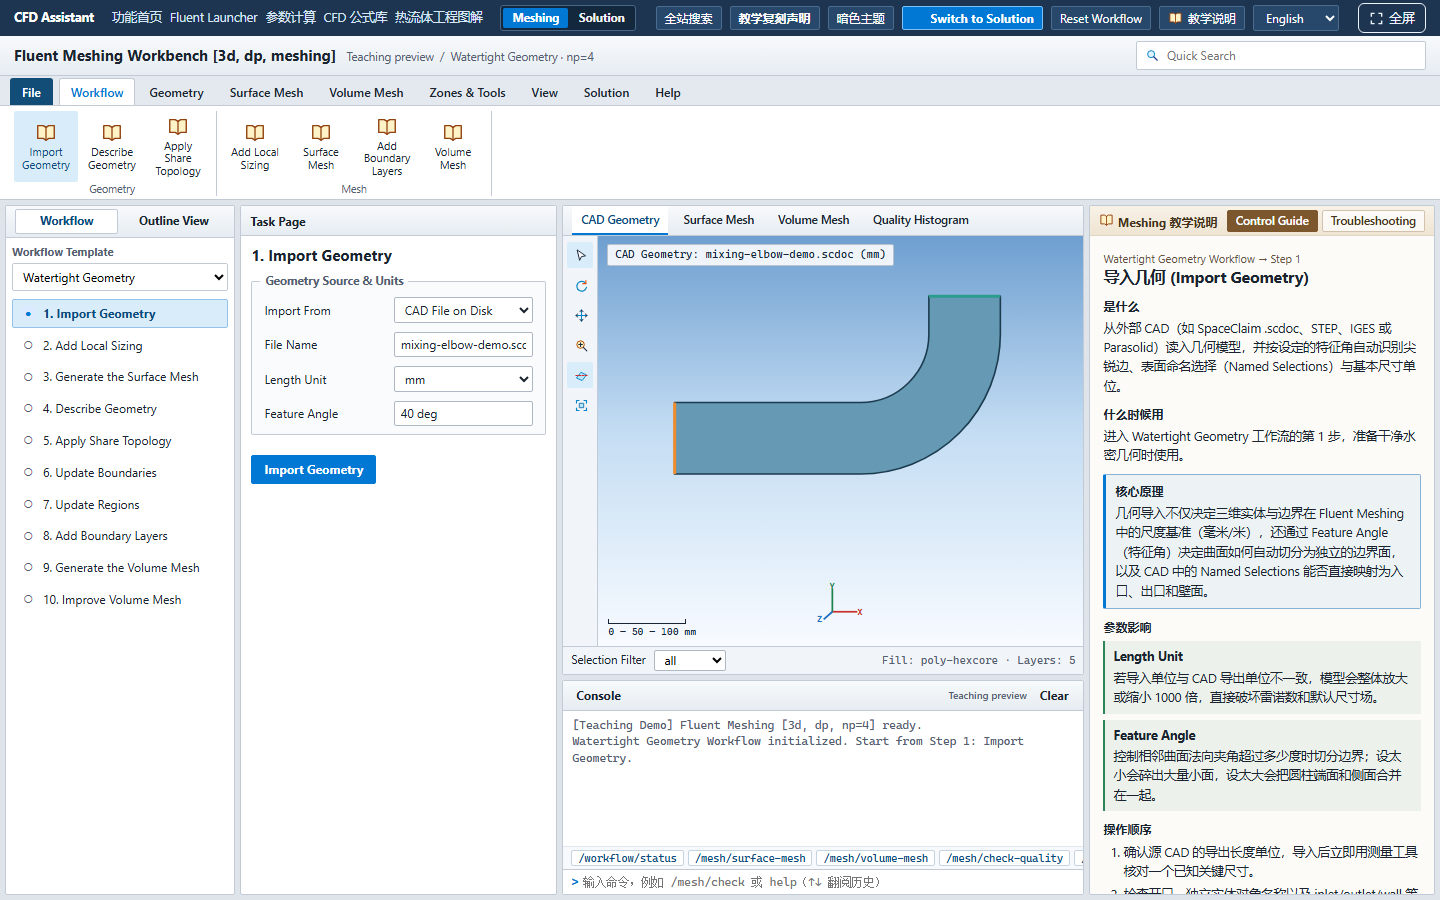
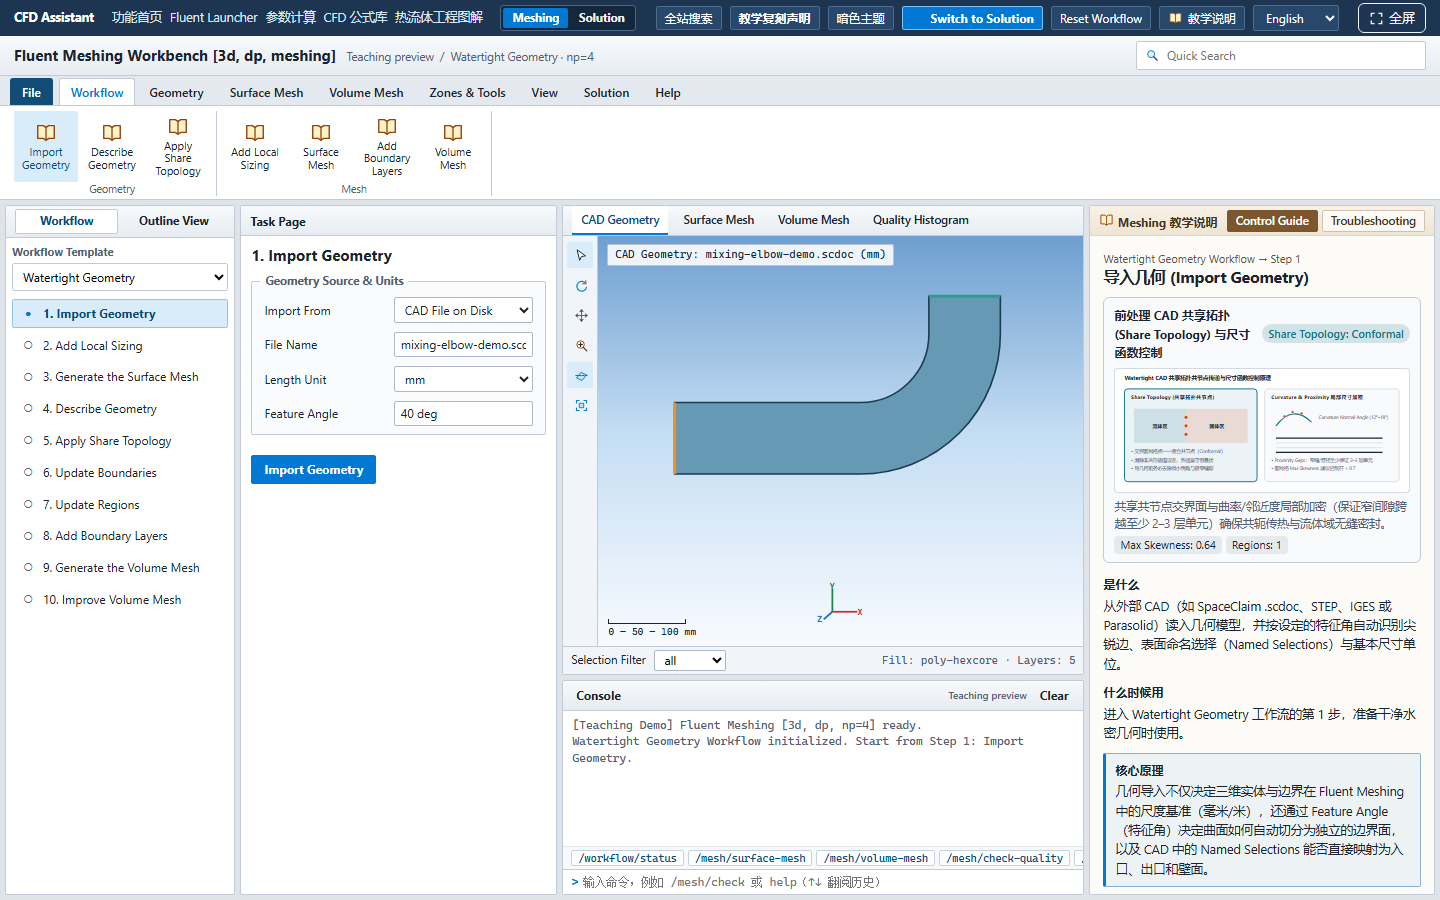
docs: update README, changelog, architecture, and screenshots for latest Fluent upgrades

Changed region(s): [[0.75, 0.3111, 1.0, 0.9956]]

diff --git a/README.md b/README.md
@@ -16,8 +16,8 @@
 | 模块 | 访问路径 | 核心能力说明 |
 | :--- | :--- | :--- |
 | **功能首页与启动器** | `/`、`/fluent-launcher` | 融合“原理 → 网格 → 求解”三段学习路径，内置 **Fluent Launcher** 交互配置器（支持 2D/3D、单/双精度、Meshing/Solution 进程数、并行与显示驱动配置并带参数跳转）。 |
-| **Fluent Solution 教学工作台** | `/fluent-guide` | 覆盖 Ribbon、模型树（Outline）、任务页面（Task Page）、3D 弯管流道视口、控制台 TUI（含常用快捷命令）与多层嵌套教学弹窗；支持中英界面切换、深浅色主题、10 步引导教程、报错排查与右侧“是什么 / 什么时候用 / 建议 / 检查要点 / 常见误区”结构化解析。 |
-| **Fluent Meshing 网格工作台** | `/fluent-meshing` | 内置 **Watertight Geometry**（水密几何）、**Fault-Tolerant**（容错几何）与 **Multizone** 引导工作流，涵盖几何导入、BOI 局部加密、面网格、边界更新、边界层、体网格填充与正交质量直方图，支持一键将配置与边界流转到 Solution 工作台。 |
+| **Fluent Solution 教学工作台** | `/fluent-guide` | 覆盖 Ribbon、可展开模型树（Outline）、任务页面（Task Page）、3D 弯管流道视口、控制台 TUI（含常用快捷命令）、**54 个新增多层嵌套教学子窗口**（覆盖 Case Check、Mesh Info、Zone Adjacency、Reference Frames、Named Expressions、Cell Registers、Animations、Simulation Report、Parallel/Native GPU、材料曲线与用户材料库、动网格 In-Cylinder/6-DOF/Contact/Events、燃烧 CHEMKIN/PDF/NOx & Soot、DTRM、电池电化学、DPM Rosin-Rammler、特殊边界与多相/UDS 配置等）与 **跨窗口条件联动选项卡**（如 UDS 自定义标量、VOF Open Channel/Wave BC、DPM Breakup/Components、Wall Film/Species、Dynamic Mesh Zones 与特殊边界多选项卡）；支持中英界面切换、深浅色主题、10 步引导教程、报错排查、右侧结构化解析与 **14 类交互式 SVG 物理机理图解**（解析面板与弹窗内联折叠联动展示）。 |
+| **Fluent Meshing 网格工作台** | `/fluent-meshing` | 内置 **Watertight Geometry**（水密几何）、**Fault-Tolerant**（容错几何）与 **Multizone** 引导工作流，涵盖几何导入、BOI 局部加密、面网格、边界更新、边界层、体网格填充与正交质量直方图，新增 **6 个接入 Ribbon 的多标签页交互弹窗**（`Read/Write Mesh`、`Display Options`、`Surface Mesh Diagnostics`、`Volume Mesh Check`、`Manage Zones`、`Preferences`）与右侧 CAD 共享拓扑、体网格棱柱层/正交质量 **SVG 物理机理图解**，支持一键将配置与边界流转到 Solution 工作台。 |
 | **CFD 参数计算器（27 项）** | `/calculators` | 分为 **5 大专业分类**，均具备单位实时换算、输入边界校验、中间量输出、KaTeX 公式渲染、变量表与一键复制摘要；每项计算器均有独立研究记录与单元测试约束。 |
 | **CFD 公式库** | `/formulas` | 与参数计算器共享单一数据源（无重复硬编码），按物理分类展示公式名称、KaTeX 数学排版、变量符号/物理含义及一键复制 LaTeX 源码。 |
 | **热流体工程图解（36 节）** | `/knowledge` | 覆盖**流体力学、工程热力学、传热学、制冷技术原理** 4 门核心课程共 36 个专题；内置工程示意图解、跨学科知识框架图谱、本学科刷题自测、难度筛选、重点收藏与本地学习进度追踪。 |
@@ -45,11 +45,11 @@
 
 ![CFD Assistant 功能首页](docs/screenshots/home.png)
 
-### Fluent Solution 求解教学工作台（90° 弯管模型 + TUI + 右侧结构化解析）
+### Fluent Solution 求解教学工作台（90° 弯管模型 + 嵌套子窗 + SVG 机理图解 + TUI）
 
 ![Fluent Solution 教学工作台](docs/screenshots/fluent-solution.png)
 
-### Fluent Meshing 网格工作台（水密/容错工作流引导）
+### Fluent Meshing 网格工作台（水密/容错工作流 + 诊断弹窗 + SVG 机理图解）
 
 ![Fluent Meshing 网格工作台](docs/screenshots/fluent-meshing.png)
 
@@ -102,7 +102,7 @@ npm.cmd run dev
 | :--- | :--- |
 | `npm.cmd run dev` | 启动 Vite 本地开发服务器 |
 | `npm.cmd run lint` | 运行 ESLint 代码静态检查 |
-| `npm.cmd run test` | 运行 Vitest 自动化测试套件（当前 14 个测试文件、352 项用例） |
+| `npm.cmd run test` | 运行 Vitest 自动化测试套件（当前 14 个测试文件、410 项用例） |
 | `npm.cmd run typecheck` | 运行 TypeScript 类型检查（`tsc -b`） |
 | `npm.cmd run build` | 执行类型检查并构建生产静态包至 `dist/` |
 | `npm.cmd run screenshots` | 启动本地预览并通过无头浏览器自动刷新 `docs/screenshots/` 截图 |
@@ -154,9 +154,9 @@ cfd-assistant/
   - 每次版本更新可通过 `npm.cmd run deploy:pages` 直接推送 `gh-pages` 分支刷新线上页面；若在仓库 `.github/workflows/deploy-pages.yml` 启用 [GitHub Actions 工作流模板](docs/github-actions-pages.yml.example)，后续每次向 `main` 分支 `git push` 都会自动执行 `lint`、`test`、`build` 并更新 GitHub Pages。
   - 站点集成 PWA `autoUpdate` 与 `controllerchange` 自动刷新逻辑，访客再次打开站点时会自动获取新版本静态资源。
 - **后续持续更新方向**：
+  - 在已初步覆盖多相流、辐射、燃烧、动网格、UDS 子窗口与 Meshing 诊断弹窗的基础上，继续深化自定义函数（UDF）概念与经典算例（弯管混合、平板边界层、换热器）的参数联动教学；
   - 扩充传热、可压缩流、旋流与多相流相关经过权威验证的计算器条目；
-  - 深化 Fluent Solution 多相流（VOF / Eulerian）、传热辐射、动网格与自定义函数（UDF）概念教学路径；
-  - 持续完善移动端工作台分栏体验、经典算例（如弯管混合、平板边界层、换热器）的案例参数联动教学。
+  - 持续完善移动端工作台分栏与触控交互体验。
 
 ---
 

diff --git a/CHANGELOG.md b/CHANGELOG.md
@@ -2,6 +2,11 @@
 
 ## Unreleased
 
+- 深化 Fluent Solution 教学工作台（`src/fluentMock/data/nestedSubDialogs.ts` 等）：新增 54 个多层嵌套教学子窗口，补齐 Case Check、Mesh Info、Zone Adjacency、Interface Orientation、Motion Definitions、Mesh Interfaces、Auxiliary Geometry、Reference Frames、Named Expressions、Curvilinear Coordinates、Cell Registers、Animations/Playback、Case Summary、Simulation Report、Parallel Network/Timer/Native GPU、材料曲线（Polynomial / Piecewise-Linear / Power-Law / NASA Cp / User Database）、动网格子窗（In-Cylinder / Six-DOF / Contact / Preview / Events）、湍流常数、CHEMKIN/Reactions/PDF/Pollutants、DTRM、电池电化学、DPM Rosin-Rammler、多相流/多边界/求解器/后处理二级配置弹窗及对应控件逻辑与 TUI 日志反馈。
+- 新增 14 类交互式 SVG 物理机理教学图解（`FluentTeachingDiagram.tsx`、`fluentTeachingDiagrams.ts`），覆盖压力基/密度基求解器、湍流尺度、近壁 y+、多相流拓扑、能量/共轭传热、辐射选型、组分燃烧、DPM 双向耦合、边界约束、动网格机制、空间离散与压力-速度耦合、UDS 跨界面联动，以及 Meshing CAD 共享拓扑与体网格棱柱层/正交质量，并在右侧解析面板与弹窗内联折叠区联动展示。
+- 增强 Fluent Solution 跨窗口条件联动、模型树与教学深度档案：支持 UDS 标量跨界面解锁边界 UDS 选项卡与材料扩散率、VOF Open Channel/Wave BC 联动、DPM 喷射器条件选项卡（`Components`/`Breakup`）、Dynamic Mesh Zones 动态标签启用状态、Wall（含 Wall Film/Species）与 Vent/Fan/Porous Jump/Radiator 等特殊边界多选项卡，扩展可展开模型树子节点并补充 `dialogTeachingProfiles.ts`、双语字典与控件教学提示。
+- 升级 Fluent Meshing 网格工作台（`MeshingDialogs.tsx`）：新增 6 个多标签页交互弹窗（`Read/Write Mesh`、`Display Options`、`Surface Mesh Diagnostics`、`Volume Mesh Check`、`Manage Zones`、`Preferences`）并接入顶部 Ribbon，同时在右侧教学面板嵌入 SVG 物理机理图解。
+- 调整 `vite.config.ts` 中 PWA Workbox `maximumFileSizeToCacheInBytes` 为 5 MiB，并将自动化测试套件扩展至 14 个测试文件、410 项用例。
 - 正式在 GitHub 公开开源（`solnaut/cfd-assistant`，MIT License），上线 GitHub Pages 在线站点（`https://solnaut.github.io/cfd-assistant/`），支持子路径部署与深链接 SPA 回退。
 - 重写开源 `README.md`，补充完整功能矩阵、界面截图（由 `scripts/capture-screenshots.mjs` 自动采集）、快速开始、目录架构、自动更新与部署说明（含 GitHub Actions 自动部署工作流模板 `docs/github-actions-pages.yml.example` 与一键部署脚本 `scripts/deploy-gh-pages.mjs`）。
 - 新增功能选择式首页、Fluent Launcher 交互配置器及独立启动页（`/fluent-launcher`）、Fluent Meshing 网格工作台（`/fluent-meshing`，覆盖 Watertight / Fault-Tolerant / Multizone 工作流并支持流转到 Solution）。

diff --git a/docs/ARCHITECTURE.md b/docs/ARCHITECTURE.md
@@ -76,13 +76,19 @@ docs/              项目文档
 
 ```text
 src/fluentMock/
-  FluentSolverMock.tsx      只负责渲染、点击状态、弹窗开关和解释面板切换
+  FluentSolverMock.tsx      Fluent Solution 主工作台与事件调度
   fluentTypes.ts            控件、任务页、弹窗、解释和来源索引类型
   fluentControls.ts         Ribbon、功能树、任务页、图形窗口、控制台控件数据
-  fluentDialogs.ts          模拟弹窗及弹窗内部控件数据
-  fluentExplanations.ts     控件解释数据和自然占位解释生成
+  fluentDialogs.ts          模拟弹窗汇总入口与分支装配
+  fluentExplanations.ts     控件解释数据汇总与占位解释生成
   fluentLayoutData.ts       汇总页面布局数据
+  fluentLanguage.ts         EN / 中文 / 双语显示标签映射
+  fluentTeachingExtras.ts   弹窗选项卡、下拉选项与关联计算器配置
   fluentResearchIndex.ts    Fluent 模拟器公开来源索引
+  components/               UI 子组件（DialogStack、ExplanationPane、OutlinePane、FluentTeachingDiagram 等）
+  data/                     分层教学数据（nestedSubDialogs、fluentTeachingDiagrams、dialogTeachingProfiles、boundaryBranches、dynamicMeshWorkflow 等）
+  state/                    状态机与 TUI/桥接逻辑（fluentSimState、fluentMultiphaseState、fluentTuiCommands、fluentWorkbenchBridge 等）
+  meshing/                  Fluent Meshing 工作台（FluentMeshingWorkbench、MeshingDialogs、meshingData、meshingOperationGuides 等）
 ```
 
 数据流：
